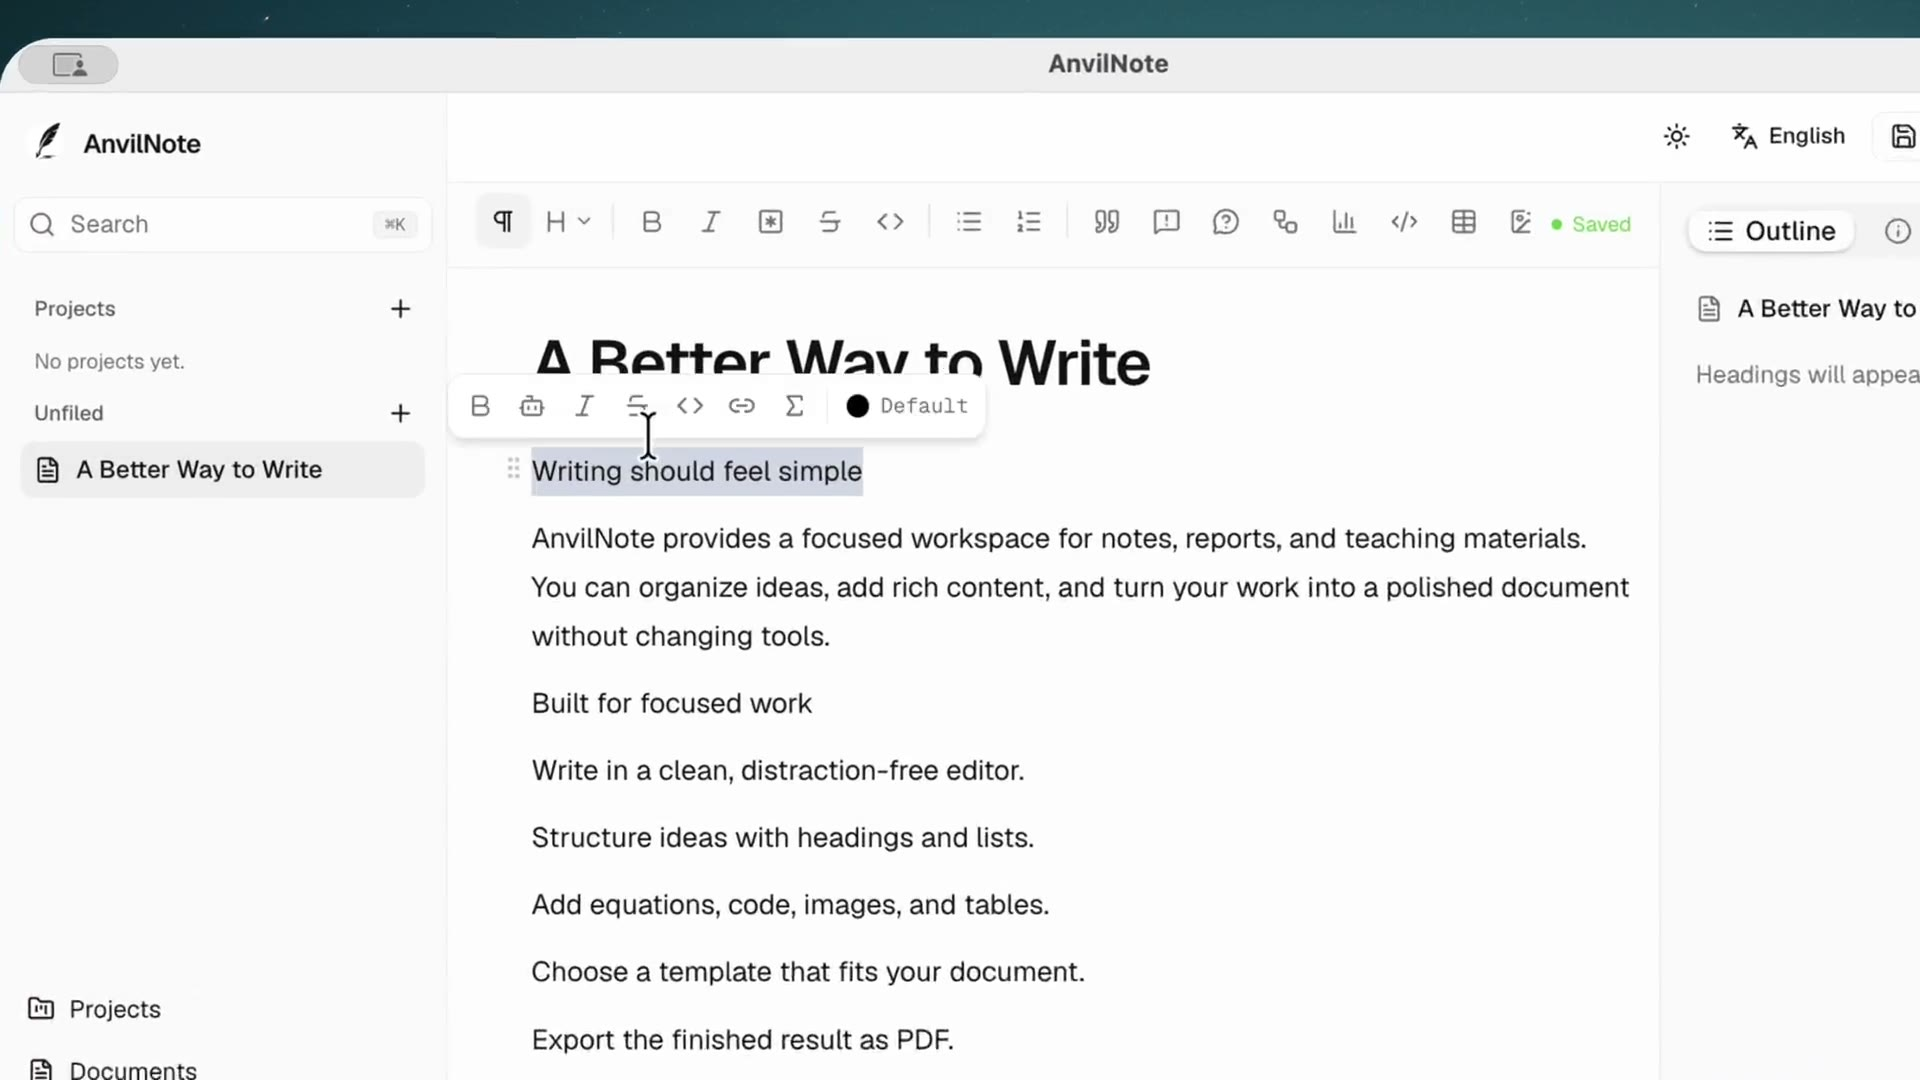
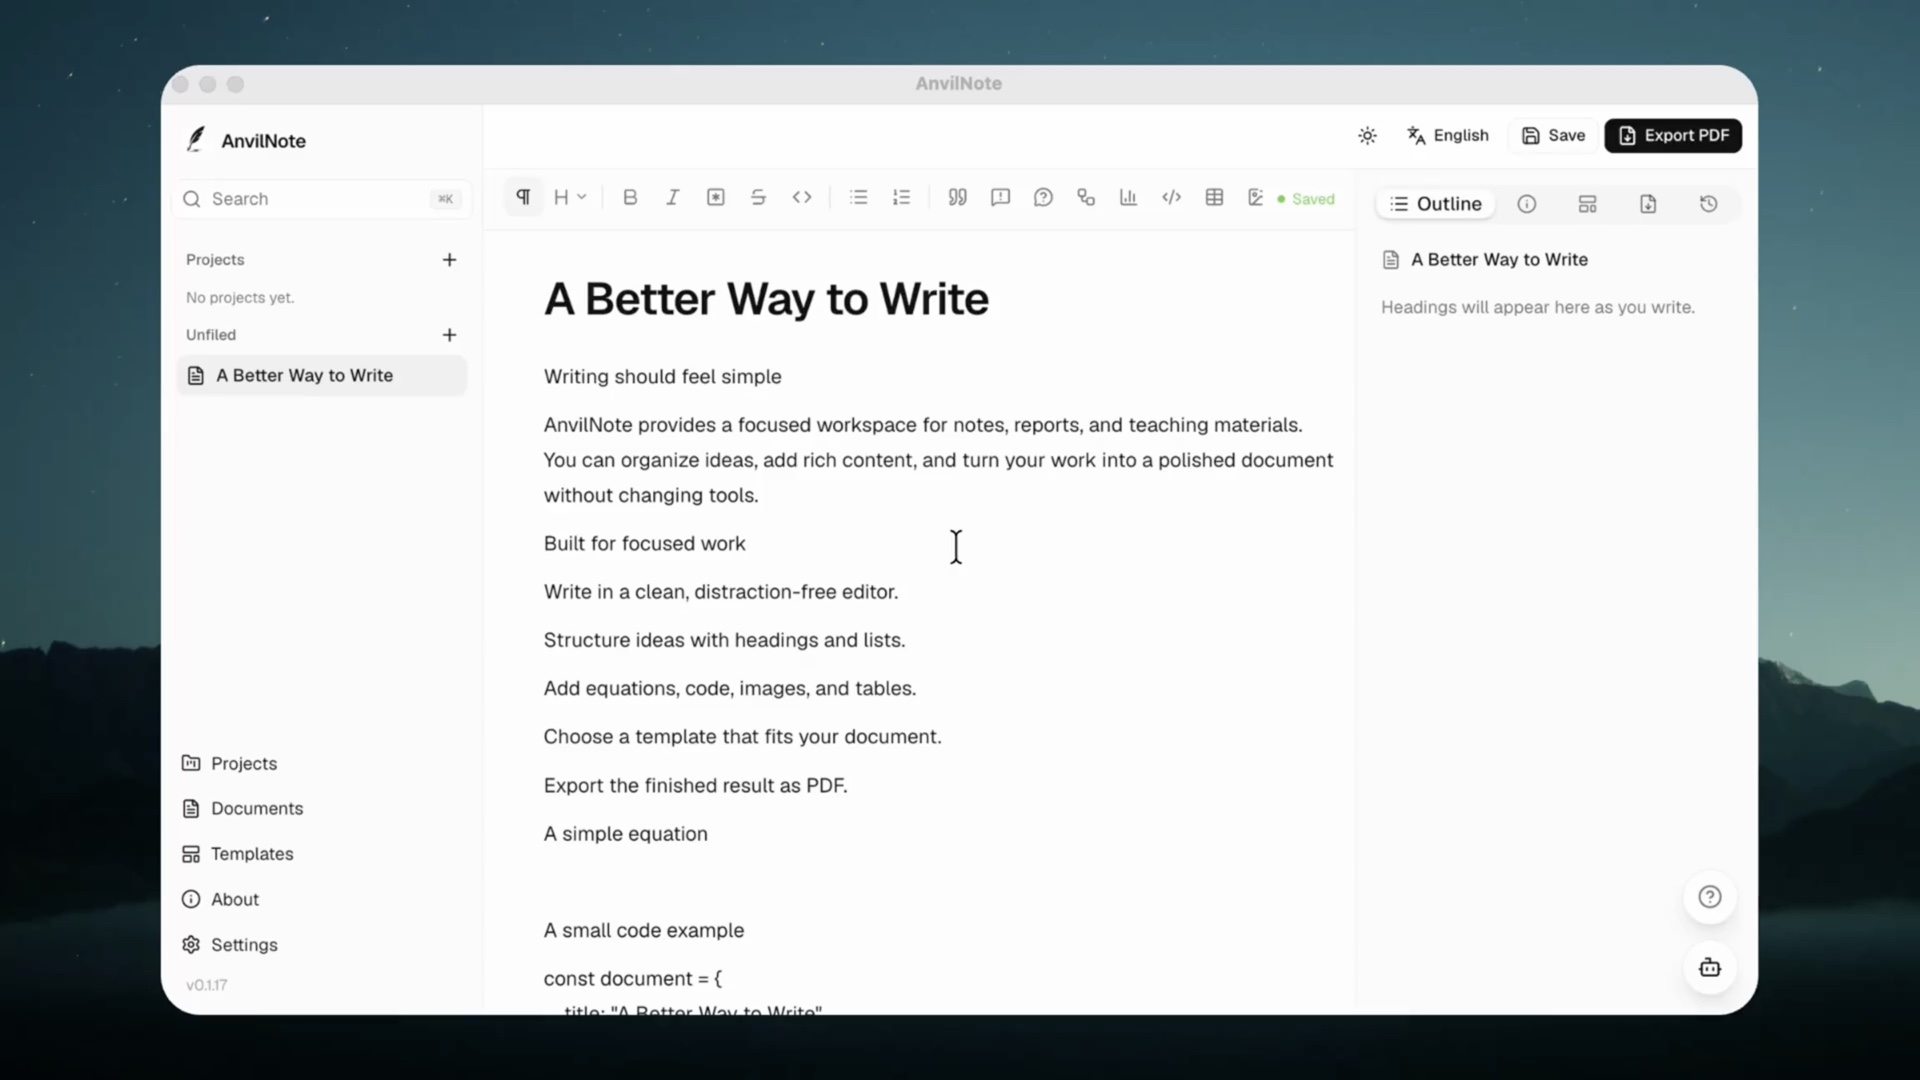
Polish landing hero spacing, add floating feedback tab
- Fix uneven line spacing in the hero headline (highlight line had an
  extra margin stacked on top of the flex gap); tighten hero top padding
  and the chevron/kicker spacing to match.
- Shrink the demo video's corner radius and swap in a real app
  screenshot as its poster frame.
- Add a fixed, vertically-centered feedback tab that slides in once the
  hero's scroll-down chevron has scrolled out of view, hidden on the
  feedback page itself; responsive sizing for mobile.
- Prevent feedback table column headers from wrapping on narrow screens.

diff --git a/src/components/landing/landing-header.tsx b/src/components/landing/landing-header.tsx
@@ -5,6 +5,7 @@ import Image from "next/image";
 import { Link } from "@/lib/i18n/navigation";
 import { ThemeToggle } from "@/components/app/theme-toggle";
 import { LocaleSwitcher } from "@/components/app/locale-switcher";
+import { FeedbackTab } from "@/components/landing/feedback-tab";
 import { getActiveHoliday } from "@/lib/holidays";
 import { cn } from "@/lib/utils";
 
@@ -25,45 +26,49 @@ export function LandingHeader() {
   }, []);
 
   return (
-    // Fixed so it stays pinned while scrolling. Callers must reserve top
-    // space (the landing hero uses pt-24+, legal pages a plain pt-24) since
-    // this never participates in normal document flow.
-    <header
-      className={cn(
-        "fixed inset-x-0 top-0 z-50 w-full border-b transition-[background-color,border-color,box-shadow] duration-300",
-        scrolled
-          ? "border-border/70 bg-background/75 shadow-[0_14px_40px_-28px_rgba(0,0,0,0.26)] backdrop-blur-lg"
-          : "border-transparent bg-transparent shadow-none"
-      )}
-    >
-      <div className="flex w-full items-center justify-between gap-5 px-5 py-3 lg:px-7">
-        <Link href="/" className="flex items-center gap-2.5 text-2xl font-semibold tracking-[-0.04em]">
-          <span className="relative flex size-9 shrink-0 items-center justify-center">
-            {holiday ? (
-              <holiday.hat.Icon
-                aria-hidden="true"
-                className="absolute -top-2 -right-1.5 size-4.5"
-                style={{ transform: `rotate(${holiday.hat.deg}deg)` }}
+    <>
+      {/* Fixed so it stays pinned while scrolling. Callers must reserve top
+          space (the landing hero uses pt-24+, legal pages a plain pt-24) since
+          this never participates in normal document flow. */}
+      <header
+        className={cn(
+          "fixed inset-x-0 top-0 z-50 w-full border-b transition-[background-color,border-color,box-shadow] duration-300",
+          scrolled
+            ? "border-border/70 bg-background/75 shadow-[0_14px_40px_-28px_rgba(0,0,0,0.26)] backdrop-blur-lg"
+            : "border-transparent bg-transparent shadow-none"
+        )}
+      >
+        <div className="flex w-full items-center justify-between gap-5 px-5 py-3 lg:px-7">
+          <Link href="/" className="flex items-center gap-2.5 text-2xl font-semibold tracking-[-0.04em]">
+            <span className="relative flex size-9 shrink-0 items-center justify-center">
+              {holiday ? (
+                <holiday.hat.Icon
+                  aria-hidden="true"
+                  className="absolute -top-2 -right-1.5 size-4.5"
+                  style={{ transform: `rotate(${holiday.hat.deg}deg)` }}
+                />
+              ) : null}
+              <Image src="/favicon-dark.svg" alt="" width={36} height={36} className="size-9 dark:hidden" priority />
+              <Image
+                src="/favicon-light.svg"
+                alt=""
+                width={36}
+                height={36}
+                className="hidden size-9 dark:block"
+                priority
               />
-            ) : null}
-            <Image src="/favicon-dark.svg" alt="" width={36} height={36} className="size-9 dark:hidden" priority />
-            <Image
-              src="/favicon-light.svg"
-              alt=""
-              width={36}
-              height={36}
-              className="hidden size-9 dark:block"
-              priority
-            />
-          </span>
-          <span>AnvilNote</span>
-        </Link>
+            </span>
+            <span>AnvilNote</span>
+          </Link>
 
-        <div className="flex items-center gap-2">
-          <ThemeToggle />
-          <LocaleSwitcher />
+          <div className="flex items-center gap-2">
+            <ThemeToggle />
+            <LocaleSwitcher />
+          </div>
         </div>
-      </div>
-    </header>
+      </header>
+
+      <FeedbackTab />
+    </>
   );
 }

diff --git a/src/components/landing/feedback-tab.tsx b/src/components/landing/feedback-tab.tsx
@@ -1,0 +1,50 @@
+"use client";
+
+import { useEffect, useState } from "react";
+import { MessageSquare } from "lucide-react";
+import { useTranslations } from "next-intl";
+import { Link, usePathname } from "@/lib/i18n/navigation";
+import { cn } from "@/lib/utils";
+
+// Visible once the hero's scroll-down chevron has scrolled past the top of
+// the viewport (i.e. the user is at or below the demo section it points
+// to) — never floats over the hero itself. Pages without a "hero-chevron"
+// anchor (feedback, legal) have nothing to hide behind, so it just shows.
+export function FeedbackTab() {
+  const t = useTranslations("landing.footer");
+  const pathname = usePathname();
+  const [visible, setVisible] = useState(false);
+
+  useEffect(() => {
+    const anchor = document.getElementById("hero-chevron");
+    if (!anchor) {
+      setVisible(true);
+      return;
+    }
+
+    const observer = new IntersectionObserver(
+      ([entry]) => setVisible(!entry.isIntersecting && entry.boundingClientRect.top < 0),
+      { threshold: 0 },
+    );
+    observer.observe(anchor);
+    return () => observer.disconnect();
+  }, []);
+
+  if (pathname === "/feedback") return null;
+
+  return (
+    <Link
+      href="/feedback"
+      aria-label={t("feedback")}
+      className={cn(
+        "fixed top-1/2 right-0 z-40 flex max-h-[80vh] -translate-y-1/2 flex-col items-center gap-2 bg-foreground px-2 py-3 text-background shadow-lg transition-all duration-300 hover:bg-foreground/90 sm:gap-3 sm:px-3 sm:py-5",
+        visible ? "translate-x-0 opacity-100" : "pointer-events-none translate-x-full opacity-0",
+      )}
+    >
+      <MessageSquare className="size-4 shrink-0 sm:size-5" />
+      <span className="text-xs font-semibold tracking-wide [writing-mode:vertical-rl] sm:text-sm">
+        {t("feedback")}
+      </span>
+    </Link>
+  );
+}

diff --git a/src/app/[locale]/page.tsx b/src/app/[locale]/page.tsx
@@ -137,8 +137,8 @@ export default async function LocaleIndexPage({
             </ParallaxLayer>
           </div>
           <div className="relative mx-auto w-full max-w-7xl px-6 py-8 lg:px-10 lg:py-10">
-            <div className="px-1 pt-24 pb-16 text-center lg:pt-32 lg:pb-18">
-              <div className="mx-auto max-w-6xl text-[3.2rem] leading-[0.93] font-semibold tracking-[-0.08em] sm:text-[4.6rem] lg:text-[6.4rem]">
+            <div className="px-1 pt-18 pb-16 text-center lg:pt-28 lg:pb-18">
+              <div className="mx-auto flex max-w-6xl flex-col gap-y-3 text-[3.2rem] leading-[0.93] font-semibold tracking-[-0.08em] sm:gap-y-4 sm:text-[4.6rem] lg:gap-y-5 lg:text-[6.4rem]">
                 <div className="text-balance">{copy.heroLine1}</div>
                 {copy.heroLine2Before ? (
                   <div className="text-balance">{copy.heroLine2Before}</div>
@@ -156,11 +156,11 @@ export default async function LocaleIndexPage({
                 ) : null}
                 <div className="text-balance">{copy.heroLine3}</div>
               </div>
-              <p className="mx-auto mt-8 max-w-3xl text-lg leading-8 text-foreground/76">
+              <p className="mx-auto mt-6 max-w-3xl text-lg leading-8 text-foreground/76">
                 {copy.heroKicker}
               </p>
 
-              <div className="mt-16 flex items-center justify-center">
+              <div id="hero-chevron" className="mt-8 flex items-center justify-center">
                 <ScrollDownLink
                   targetId="demo"
                   ariaLabel={copy.secondaryCta}
@@ -174,7 +174,7 @@ export default async function LocaleIndexPage({
         </section>
 
         <section id="demo" className="px-6 pt-10 pb-8 lg:px-10 lg:pt-16 lg:pb-10">
-          <div className="mx-auto w-full max-w-4xl overflow-hidden rounded-[2rem] border border-border shadow-[0_24px_80px_-48px_rgba(0,0,0,0.38)]">
+          <div className="mx-auto w-full max-w-4xl overflow-hidden rounded-2xl border border-border shadow-[0_24px_80px_-48px_rgba(0,0,0,0.38)]">
             <DemoVideo src="/landing/demo.mp4" poster="/landing/demo-poster.jpg" />
           </div>
         </section>

diff --git a/src/components/feedback/feedback-board.tsx b/src/components/feedback/feedback-board.tsx
@@ -164,7 +164,7 @@ export function FeedbackBoard({ items }: { items: FeedbackItem[] }) {
         <table className="w-full text-sm">
           <thead className="bg-muted/40 text-left text-xs text-muted-foreground">
             <tr>
-              <th className="px-4 py-2 font-medium">
+              <th className="px-4 py-2 font-medium whitespace-nowrap">
                 <button
                   type="button"
                   className="inline-flex items-center gap-1 hover:text-foreground"
@@ -181,9 +181,9 @@ export function FeedbackBoard({ items }: { items: FeedbackItem[] }) {
                   )}
                 </button>
               </th>
-              <th className="px-4 py-2 font-medium">{t("table.title")}</th>
-              <th className="px-4 py-2 font-medium">{t("table.category")}</th>
-              <th className="px-4 py-2 font-medium">{t("table.status")}</th>
+              <th className="px-4 py-2 font-medium whitespace-nowrap">{t("table.title")}</th>
+              <th className="px-4 py-2 font-medium whitespace-nowrap">{t("table.category")}</th>
+              <th className="px-4 py-2 font-medium whitespace-nowrap">{t("table.status")}</th>
             </tr>
           </thead>
           <tbody>